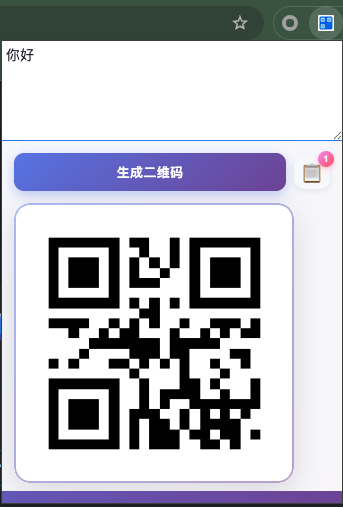
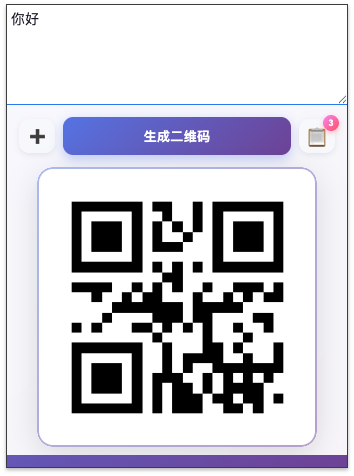
feat: 自动加载最近访问记录、新建按钮、历史搜索
- 打开插件时自动加载最近访问的历史记录
- 添加新建按钮，清空当前内容创建新二维码
- 添加历史记录搜索功能，支持按名称和内容搜索
- 更新 README 文档

diff --git a/src/popup.ts b/src/popup.ts
@@ -20,8 +20,10 @@ class PopupController {
   // UI Elements
   private textInput: HTMLTextAreaElement;
   private generateBtn: HTMLButtonElement;
+  private newBtn: HTMLButtonElement;
   private historyBtn: HTMLButtonElement;
   private historyCount: HTMLElement;
+  private historySearch: HTMLInputElement;
   private qrContainer: HTMLElement;
   private favoritesSection: HTMLElement;
   private favoritesList: HTMLElement;
@@ -34,6 +36,7 @@ class PopupController {
   private currentFavoriteId: string | null = null;
   private isGenerating: boolean = false;
   private isHistoryVisible: boolean = false;
+  private searchQuery: string = '';
 
   constructor() {
     try {
@@ -45,8 +48,10 @@ class PopupController {
       // Initialize UI elements
       this.textInput = document.getElementById('textInput') as HTMLTextAreaElement;
       this.generateBtn = document.getElementById('generateBtn') as HTMLButtonElement;
+      this.newBtn = document.getElementById('newBtn') as HTMLButtonElement;
       this.historyBtn = document.getElementById('historyBtn') as HTMLButtonElement;
       this.historyCount = document.getElementById('historyCount') as HTMLElement;
+      this.historySearch = document.getElementById('historySearch') as HTMLInputElement;
       this.qrContainer = document.getElementById('qrCodeContainer') as HTMLElement;
       this.favoritesSection = document.getElementById('favoritesSection') as HTMLElement;
       this.favoritesList = document.getElementById('favoritesList') as HTMLElement;
@@ -56,7 +61,7 @@ class PopupController {
       this.favoritesCount = document.getElementById('favoritesCount') as HTMLElement;
       
       // Validate required elements exist
-      if (!this.textInput || !this.generateBtn || !this.qrContainer || !this.favoritesList || 
+      if (!this.textInput || !this.generateBtn || !this.newBtn || !this.qrContainer || !this.favoritesList || 
           !this.clearAllBtn || !this.historyBtn || !this.favoritesSection) {
         throw new Error('Required UI elements not found in DOM');
       }
@@ -81,11 +86,40 @@ class PopupController {
    */
   private initializeEventListeners(): void {
     this.generateBtn.addEventListener('click', () => this.handleGenerateClick());
+    this.newBtn.addEventListener('click', () => this.handleNewClick());
     this.textInput.addEventListener('input', () => this.handleTextInputChange());
     this.textInput.addEventListener('keydown', (e) => this.handleTextInputKeydown(e));
     this.textInput.addEventListener('focus', () => this.handleTextInputFocus());
     this.clearAllBtn.addEventListener('click', () => this.handleClearAllClick());
     this.historyBtn.addEventListener('click', () => this.toggleHistory());
+    this.historySearch.addEventListener('input', () => this.handleSearchInput());
+  }
+
+  /**
+   * Handle search input change
+   */
+  private handleSearchInput(): void {
+    this.searchQuery = this.historySearch.value.trim().toLowerCase();
+    this.refreshFavoritesList();
+  }
+
+  /**
+   * Handle new button click - clear current content for new QR code
+   */
+  private handleNewClick(): void {
+    this.textInput.value = '';
+    this.currentFavoriteId = null;
+    this.qrContainer.innerHTML = '<div class="placeholder-text">二维码将在此显示</div>';
+    this.handleTextInputChange();
+    this.textInput.focus();
+    
+    // Clear last accessed ID and session storage
+    this.favoritesManager.setLastAccessedId(null);
+    try {
+      sessionStorage.removeItem('qr_generator_input');
+    } catch (error) {
+      console.warn('Could not clear session storage:', error);
+    }
   }
 
   /**
@@ -97,6 +131,8 @@ class PopupController {
     this.historyBtn.classList.toggle('active', this.isHistoryVisible);
     
     if (this.isHistoryVisible) {
+      this.searchQuery = '';
+      this.historySearch.value = '';
       this.refreshFavoritesList();
     }
   }
@@ -159,10 +195,12 @@ class PopupController {
       try {
         if (this.currentFavoriteId) {
           await this.favoritesManager.updateFavorite(this.currentFavoriteId, { text: text });
+          await this.favoritesManager.setLastAccessedId(this.currentFavoriteId);
           this.showSuccessMessage('已更新');
         } else {
           const newFavorite = await this.favoritesManager.saveFavorite(text);
           this.currentFavoriteId = newFavorite.id;
+          await this.favoritesManager.setLastAccessedId(newFavorite.id);
           this.showSuccessMessage('已保存');
         }
         
@@ -274,7 +312,9 @@ class PopupController {
       this.setLoadingState(true);
       
       await this.updateHistoryCount();
-      await this.restoreInputState();
+      
+      // Load the most recent history entry
+      await this.loadMostRecentHistory();
       
       this.textInput.focus();
       
@@ -283,6 +323,33 @@ class PopupController {
       this.showError('加载失败，请刷新重试');
     } finally {
       this.setLoadingState(false);
+    }
+  }
+
+  /**
+   * Load the most recent history entry and generate its QR code
+   */
+  private async loadMostRecentHistory(): Promise<void> {
+    try {
+      // Get the last accessed favorite
+      const lastAccessed = await this.favoritesManager.getLastAccessedFavorite();
+      
+      if (!lastAccessed) {
+        return;
+      }
+      
+      // Set the text input and current favorite ID
+      this.textInput.value = lastAccessed.text;
+      this.currentFavoriteId = lastAccessed.id;
+      this.handleTextInputChange();
+      
+      // Generate the QR code
+      await this.qrGenerator.generateQRCode(lastAccessed.text, this.qrContainer);
+      
+    } catch (error) {
+      console.warn('Could not load last accessed history:', error);
+      // Fall back to restoring input state
+      await this.restoreInputState();
     }
   }
 
@@ -340,20 +407,29 @@ class PopupController {
     try {
       const favorites = await this.favoritesManager.getFavorites();
       
+      // Filter by search query
+      let filteredFavorites = favorites;
+      if (this.searchQuery) {
+        filteredFavorites = favorites.filter(favorite => 
+          favorite.name.toLowerCase().includes(this.searchQuery) ||
+          favorite.text.toLowerCase().includes(this.searchQuery)
+        );
+      }
+      
       this.clearAllBtn.disabled = favorites.length === 0;
       this.clearAllBtn.style.display = favorites.length === 0 ? 'none' : 'inline-block';
       
       this.favoritesList.innerHTML = '';
       
-      if (favorites.length === 0) {
+      if (filteredFavorites.length === 0) {
         const noFavoritesDiv = document.createElement('div');
         noFavoritesDiv.className = 'no-favorites';
-        noFavoritesDiv.textContent = '暂无历史记录';
+        noFavoritesDiv.textContent = this.searchQuery ? '未找到匹配的记录' : '暂无历史记录';
         this.favoritesList.appendChild(noFavoritesDiv);
         return;
       }
       
-      const sortedFavorites = favorites.sort((a, b) => 
+      const sortedFavorites = filteredFavorites.sort((a, b) => 
         new Date(b.updatedAt).getTime() - new Date(a.updatedAt).getTime()
       );
       
@@ -491,6 +567,9 @@ class PopupController {
     this.textInput.focus();
     this.handleTextInputChange();
     this.highlightSelectedFavorite(favorite.id);
+    
+    // Save as last accessed
+    await this.favoritesManager.setLastAccessedId(favorite.id);
     
     // 关闭 Popper
     this.closeHistory();

diff --git a/styles/popup.css b/styles/popup.css
@@ -105,6 +105,35 @@ body {
     transform: none;
 }
 
+/* New button */
+.new-btn {
+    background: #f8f9fc;
+    border: none;
+    padding: 4px 8px;
+    border-radius: 10px;
+    cursor: pointer;
+    transition: all 0.3s ease;
+    display: flex;
+    align-items: center;
+    justify-content: center;
+    box-shadow: 0 2px 6px rgba(0, 0, 0, 0.08);
+}
+
+.new-btn:hover {
+    background: #fff;
+    transform: translateY(-1px);
+    box-shadow: 0 3px 10px rgba(0, 0, 0, 0.12);
+}
+
+.new-btn:active {
+    transform: translateY(0);
+}
+
+.new-icon {
+    font-size: 16px;
+    transition: all 0.3s ease;
+}
+
 /* History wrapper for popper positioning */
 .history-wrapper {
     position: relative;
@@ -203,7 +232,33 @@ body {
     justify-content: space-between;
     align-items: center;
     padding: 14px 16px 10px;
+}
+
+/* Search wrapper */
+.search-wrapper {
+    padding: 0 12px 10px;
     border-bottom: 1px solid #f3f4f6;
+}
+
+.history-search {
+    width: 100%;
+    padding: 8px 12px;
+    border: 1.5px solid #e5e7eb;
+    border-radius: 8px;
+    font-size: 12px;
+    background: #f9fafb;
+    transition: all 0.2s ease;
+}
+
+.history-search:focus {
+    outline: none;
+    border-color: #667eea;
+    background: #fff;
+    box-shadow: 0 0 0 3px rgba(102, 126, 234, 0.1);
+}
+
+.history-search::placeholder {
+    color: #9ca3af;
 }
 
 .favorites-title {
@@ -418,7 +473,8 @@ body {
 /* QR Code display section */
 .qr-display-section {
     padding-bottom: 8px;
-    padding-left: 12px;
+    display: flex;
+    justify-content: center;
 }
 
 .qr-container {

diff --git a/src/favorites-manager.ts b/src/favorites-manager.ts
@@ -406,6 +406,48 @@ export class FavoritesManager {
   }
 
   /**
+   * Set the last accessed favorite ID
+   * 
+   * @param id ID of the last accessed favorite
+   */
+  async setLastAccessedId(id: string | null): Promise<void> {
+    try {
+      const storage = await this.loadStorage();
+      if (id === null) {
+        delete storage.settings.lastAccessedId;
+      } else {
+        storage.settings.lastAccessedId = id;
+      }
+      await this.storageService.saveExtensionStorage(storage);
+      this.cache = storage;
+    } catch (error) {
+      console.warn('Failed to save last accessed ID:', error);
+    }
+  }
+
+  /**
+   * Get the last accessed favorite entry
+   * 
+   * @returns Promise resolving to the last accessed HistoryEntry or null
+   */
+  async getLastAccessedFavorite(): Promise<HistoryEntry | null> {
+    try {
+      const storage = await this.loadStorage();
+      const lastAccessedId = storage.settings.lastAccessedId;
+      
+      if (!lastAccessedId) {
+        return null;
+      }
+      
+      const favorite = storage.favorites.find(entry => entry.id === lastAccessedId);
+      return favorite ? { ...favorite } : null;
+    } catch (error) {
+      console.warn('Failed to get last accessed favorite:', error);
+      return null;
+    }
+  }
+
+  /**
    * Invalidate cache to force reload from storage
    */
   invalidateCache(): void {

diff --git a/popup.html b/popup.html
@@ -17,6 +17,9 @@
                     rows="4"
                 ></textarea>
                 <div class="button-row">
+                    <button id="newBtn" class="new-btn" title="新建">
+                        <span class="new-icon">➕</span>
+                    </button>
                     <button id="generateBtn" class="generate-btn">生成二维码</button>
                     <div class="history-wrapper">
                         <button id="historyBtn" class="history-btn" title="历史记录">
@@ -29,6 +32,9 @@
                             <div class="favorites-header">
                                 <span class="favorites-title">历史记录</span>
                                 <button id="clearAllBtn" class="clear-all-btn" title="清空全部">清空</button>
+                            </div>
+                            <div class="search-wrapper">
+                                <input type="text" id="historySearch" class="history-search" placeholder="搜索历史记录..." />
                             </div>
                             <div id="storageInfo" class="storage-info" style="display: none;">
                                 <div class="storage-bar">

diff --git a/src/types.ts b/src/types.ts
@@ -37,6 +37,9 @@ export interface ExtensionSettings {
   
   /** Default QR code size in pixels (default: 256) */
   defaultQRSize: number;
+  
+  /** ID of the last accessed history entry */
+  lastAccessedId?: string;
 }
 
 /**

diff --git a/README.md b/README.md
@@ -11,9 +11,9 @@
 ## 功能特性
 
 - **快速生成**: 输入文本即可实时生成高质量二维码
-- **历史记录**: 自动保存生成记录，支持重命名、删除和批量清空
-- **按需渲染**: 二维码按需生成，不存储图片数据，节省 95% 存储空间
-- **存储监控**: 实时显示存储使用情况，支持颜色预警
+- **自动恢复**: 打开插件时自动加载最近访问的历史记录
+- **新建按钮**: 一键清空当前内容，快速创建新的二维码
+- **历史记录**: 自动保存生成记录，支持搜索、重命名、删除和批量清空
 - **键盘快捷键**: 支持 Ctrl+Enter 快速生成
 
 ## 安装
@@ -66,14 +66,6 @@ npm run test:coverage # 测试覆盖率
 - Chrome Storage API
 - qrcode.js
 - Jest 测试框架
-
-## 存储说明
-
-- 存储限制: 5MB (Chrome 限制)
-- 收藏上限: 100 条
-- 每条记录约 200-500 字节（仅存储文本，不存储图片）
-
-详细存储管理指南请参考 [STORAGE_GUIDE.md](./STORAGE_GUIDE.md)
 
 ## 更新日志
 
